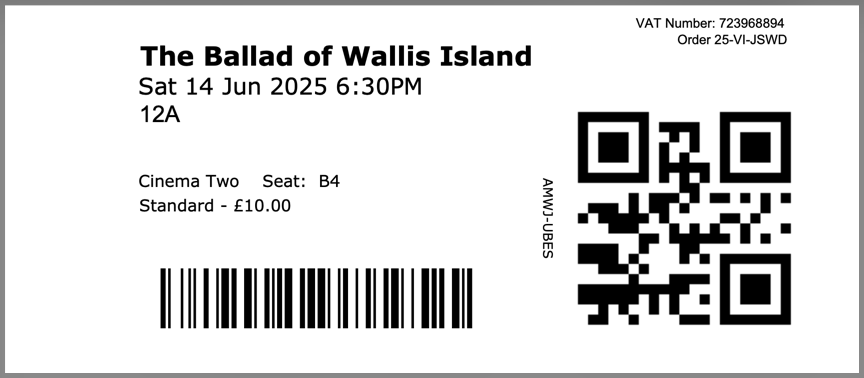
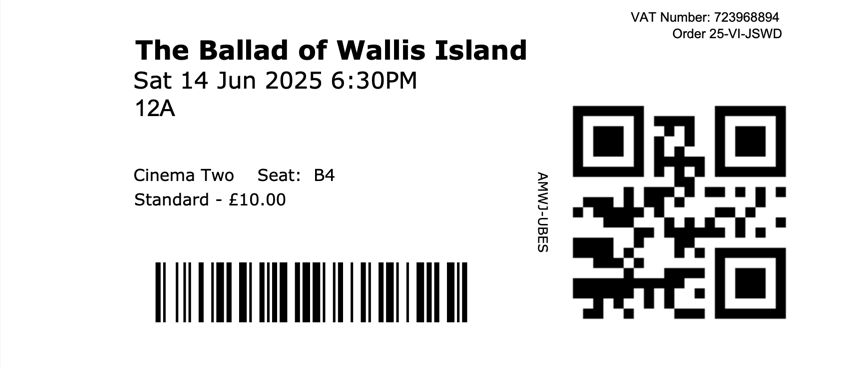
Better ticket stubs

diff --git a/public/css/film-article.css b/public/css/film-article.css
@@ -67,12 +67,30 @@ section.ticket-stub {
   margin: 6rem 0;
   text-align: center;
   transform: rotate(-10deg);
-
-  img {
+  
+  & a {
+    display: block;
+    margin: 0 auto;
     max-width: 300px;
+    position: relative;
   }
 
-  p {
-    text-align: center;
+  & span {
+    color: red;
+    display: block;
+    font-family: Arial, Helvetica, sans-serif;
+    font-size: 2rem;
+    font-weight: bold;
+    transform: rotate(-90deg);
+    position: absolute;
+    bottom: 0;
+    left: 44px;
+    top: 0;
+    z-index: 1;
+  }
+
+  & img {
+    border-radius: 4px;
+    box-shadow: 0 0 10px rgba(0, 0, 0, 0.1);
   }
 }

diff --git a/content/blog/2025/the-phoenician-scheme/index.md b/content/blog/2025/the-phoenician-scheme/index.md
@@ -1,7 +1,7 @@
 ---
 title: The Phoenician Scheme Review
 ogImage: content/bill/films/backdrops/the-phoenician-scheme-2025.jpg
-description: Bill's review of The Phoenician Scheme by Wes Anderson — 8/10. 
+description: Bill's review of The Phoenician Scheme by Wes Anderson — ⭐⭐⭐⭐⭐ 
 filmSlug: the-phoenician-scheme-2025
 date: 2025-05-30
 author: Bill Horsman
@@ -17,8 +17,10 @@ Very Wes!, very stylish, impeccably done. Mia Threapleton was my favourite among
 It's very innovative but at the same time, more of the same. If you haven't watched a Wes Anderson film before then I'd  recommend you start elsewhere: [Fantastic Mr. Fox](/bill/films/fantastic-mr-fox-2009), [The Grand Budapest Hotel](/bill/films/the-grand-budapest-hotel-2014), [The French Dispatch](/bill/films/the-french-dispatch-2021) or [Asteroid City](/bill/films/asteroid-city-2023) — all of which make my [Top 100](/bill/films).
 
 <section class="ticket-stub">
-  <img src="ticket.png" alt="Ticket stub">
-  <p><a href="https://www.dca.org.uk/">DCA</a> &mdash; 29 May 2025</p>
+  <a href="https://www.dca.org.uk/">
+    <span>DCA</span>
+    <img src="ticket.png" alt="Ticket stub">
+  </a>
 </section>
 
 {% include "film-detail.njk" %}

diff --git a/content/blog/2025/the-ballad-of-wallis-island/index.md b/content/blog/2025/the-ballad-of-wallis-island/index.md
@@ -1,7 +1,7 @@
 ---
 title: The Ballad of Wallis Island Review
 ogImage: content/bill/films/backdrops/the-ballad-of-wallis-island-2025.jpg
-description: Bill's review of The Ballad of Wallis Islands with Tim Key, Carey Mulligan and Tom Basden — 8/10. 
+description: Bill's review of The Ballad of Wallis Islands with Tim Key, Carey Mulligan and Tom Basden — ⭐⭐⭐⭐⭐ 
 filmSlug: the-ballad-of-wallis-island-2025
 date: 2025-06-15
 author: Bill Horsman
@@ -22,8 +22,10 @@ Trying to dry Herb's phone throughout the film was a long running gag. Rice pudd
 
 
 <section class="ticket-stub">
-  <img src="ticket.png" alt="Ticket stub">
-  <p><a href="https://www.dca.org.uk/">DCA</a> &mdash; 14 June 2025</p>
+  <a href="https://www.dca.org.uk/">
+    <span>DCA</span>
+    <img src="ticket.png" alt="Ticket stub">
+  </a>
 </section>
 
 {% include "film-detail.njk" %}
